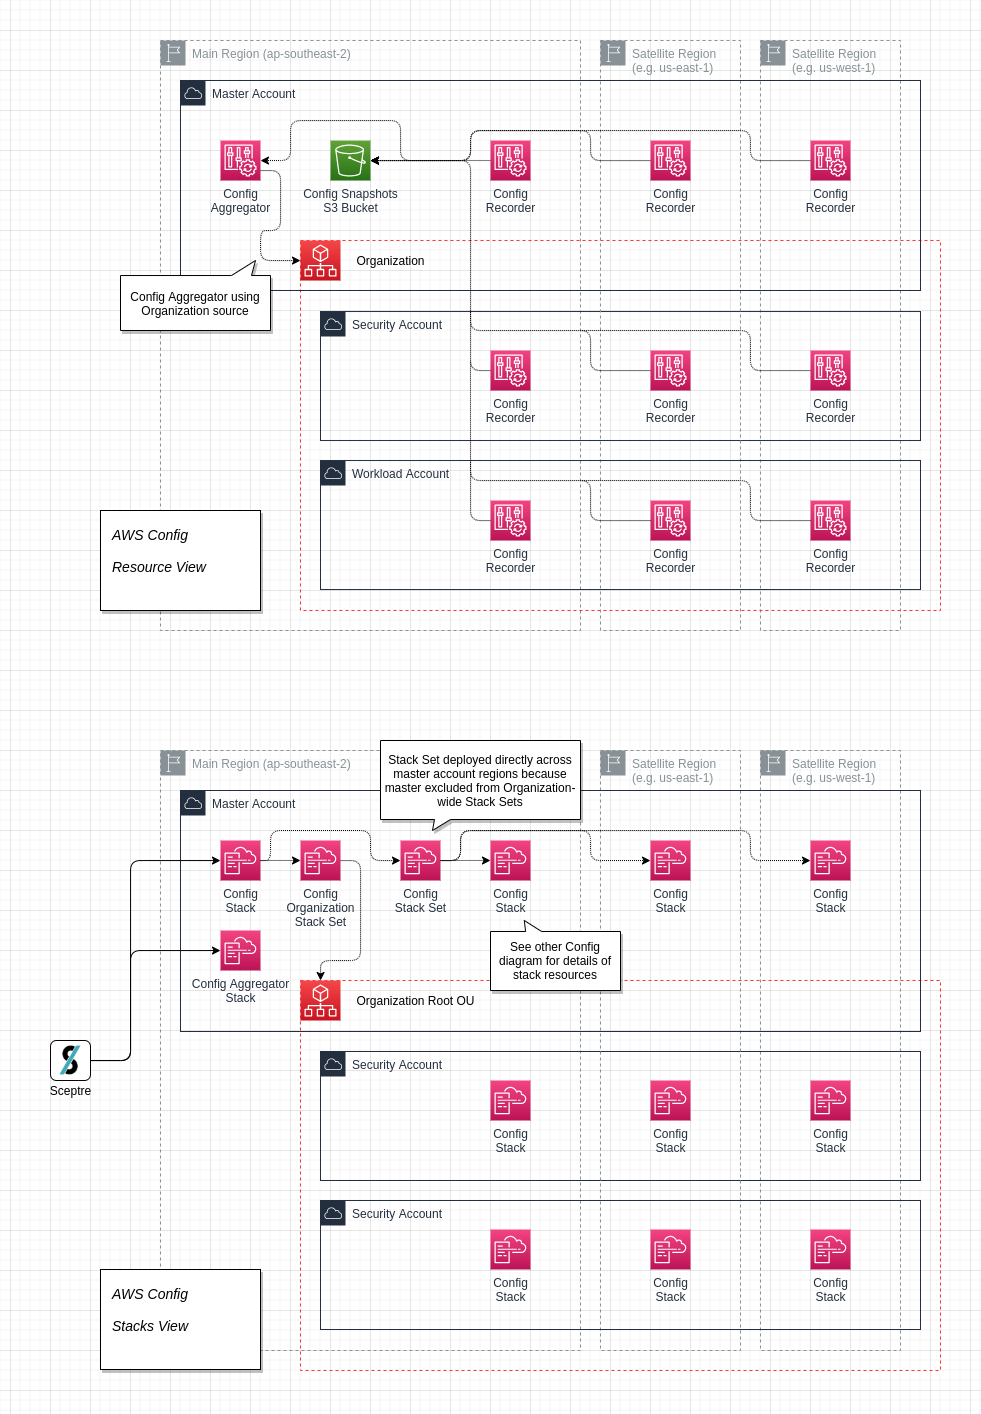
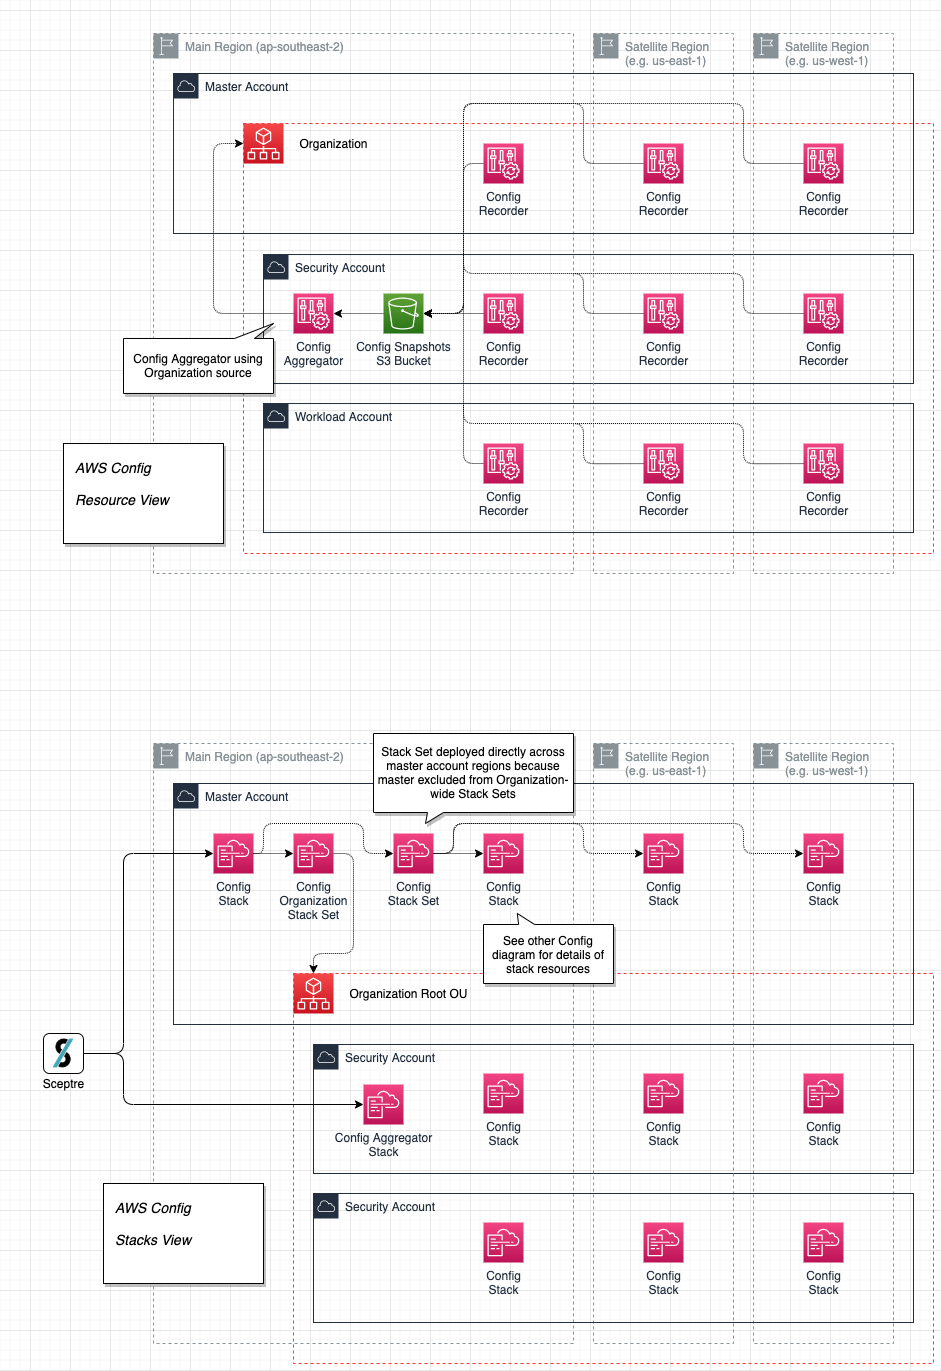
#21 Update Config documentation

diff --git a/docs/Features.md b/docs/Features.md
@@ -14,9 +14,9 @@
 ## AWS Config
 
 - AWS Organisation Trusted Access enabled for Config and Config Rules
-- `Security` account enabled as Delegated Administrator for Config Rules
+- `Security` account enabled as Delegated Administrator for Config Rules and Config
 - Config deployed across Organization via Stack Set deployed to `Core` account (and Stack Set for `Core` account directly)
-- Config Aggregator and S3 Bucket for Config snapshots deployed to `Core` account
+- Config Aggregator and S3 Bucket for Config snapshots deployed to `Security` account
 
 ![Config Architecture](./Config.png)
 
